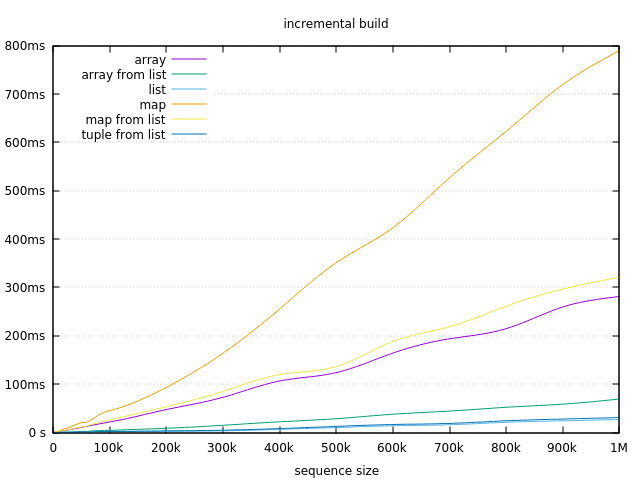
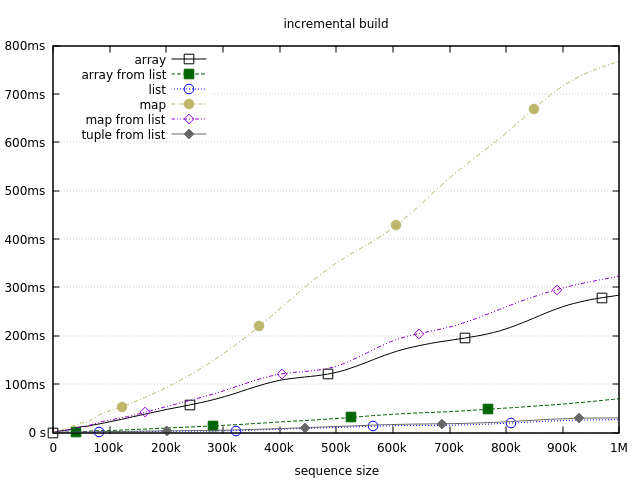
Improve plot distinction

diff --git a/site/articles/sequences.md b/site/articles/sequences.md
@@ -101,9 +101,11 @@ Therefore, treat these results carefully, and always measure in the context of t
 
 ## Building a sequence
 
-Let's first compare the performance of building a sequence incrementally, using various sizes up to 1M. Here are the results:
+Let's first compare the performance of building a sequence incrementally. Here are the results:
 
 ![Incremental build benchmark](/images/seq_build.png)
+
+The measurements are performed on various sizes: 1, 2, 3, ..., 10, 20, 30, ..., 100, ..., 1M. For the sake of better identification of each measurement, a few points on each line are highlighted (circles, squares, ...).
 
 The results demonstrate that lists are the fastest option for dynamically building a sequence. The 2nd- and the 3rd- best option also owe their results to lists. In both of these cases we first build a list, and then convert it to a target structure with `List.to_tuple` and `:array.from_list` respectively. `List.to_tuple` is particularly fast since it's implemented natively. It takes a few milliseconds to transform a list of million elements into a tuple on my machine.
 
